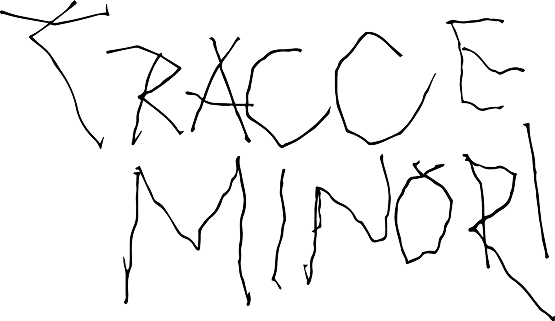
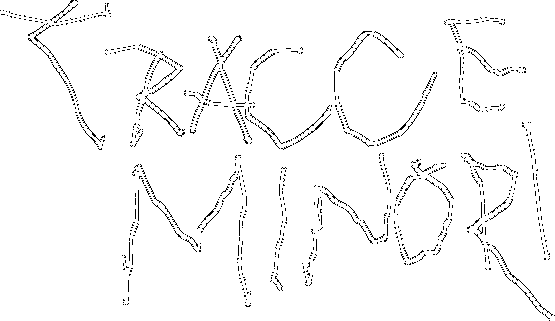
Copertina modificata

diff --git a/src/lib/components/HomeCover.svelte b/src/lib/components/HomeCover.svelte
@@ -1,4 +1,5 @@
 <script lang="ts">
+	import titoloUrl from '$lib/content/home/titolo.png?url';
 	import illustrazioneAltoSinistraUrl from '$lib/content/home/illustrazione-alto-sinistra.svg?url';
 	import illustrazioneAltoDestraUrl from '$lib/content/home/illustrazione-alto-destra.svg?url';
 	import illustrazioneBassoSinistraUrl from '$lib/content/home/illustrazione-basso-sinistra.svg?url';
@@ -39,6 +40,17 @@
 			height="425"
 			decoding="async"
 		/>
+		<div class="cover__title">
+			<img
+				class="cover__title-img"
+				src={titoloUrl}
+				alt="Tracce minori"
+				width="555"
+				height="321"
+				decoding="async"
+			/>
+			<p class="cover__subtitle">Storie che attraversano la città</p>
+		</div>
 	</div>
 </section>
 
@@ -53,6 +65,38 @@
 		width: min(100%, 72rem);
 		min-height: clamp(28rem, 78vh, 46rem);
 		margin: 0 auto;
+	}
+
+	.cover__title {
+		position: absolute;
+		inset: 0;
+		z-index: 1;
+		display: flex;
+		flex-direction: column;
+		align-items: center;
+		justify-content: center;
+		gap: clamp(0.35rem, 1.2vw, 0.65rem);
+		padding: clamp(5.5rem, 18vw, 9rem) clamp(1rem, 4vw, 2rem);
+		pointer-events: none;
+		text-align: center;
+	}
+
+	.cover__title-img {
+		display: block;
+		width: min(88%, 26rem);
+		height: auto;
+	}
+
+	.cover__subtitle {
+		margin: 0;
+		max-width: 24rem;
+		font-family: var(--font-sans);
+		font-size: clamp(0.68rem, 1.6vw, 0.9rem);
+		font-weight: 600;
+		line-height: 1.35;
+		letter-spacing: 0.14em;
+		text-transform: uppercase;
+		color: #0b1530;
 	}
 
 	.cover__illus {
